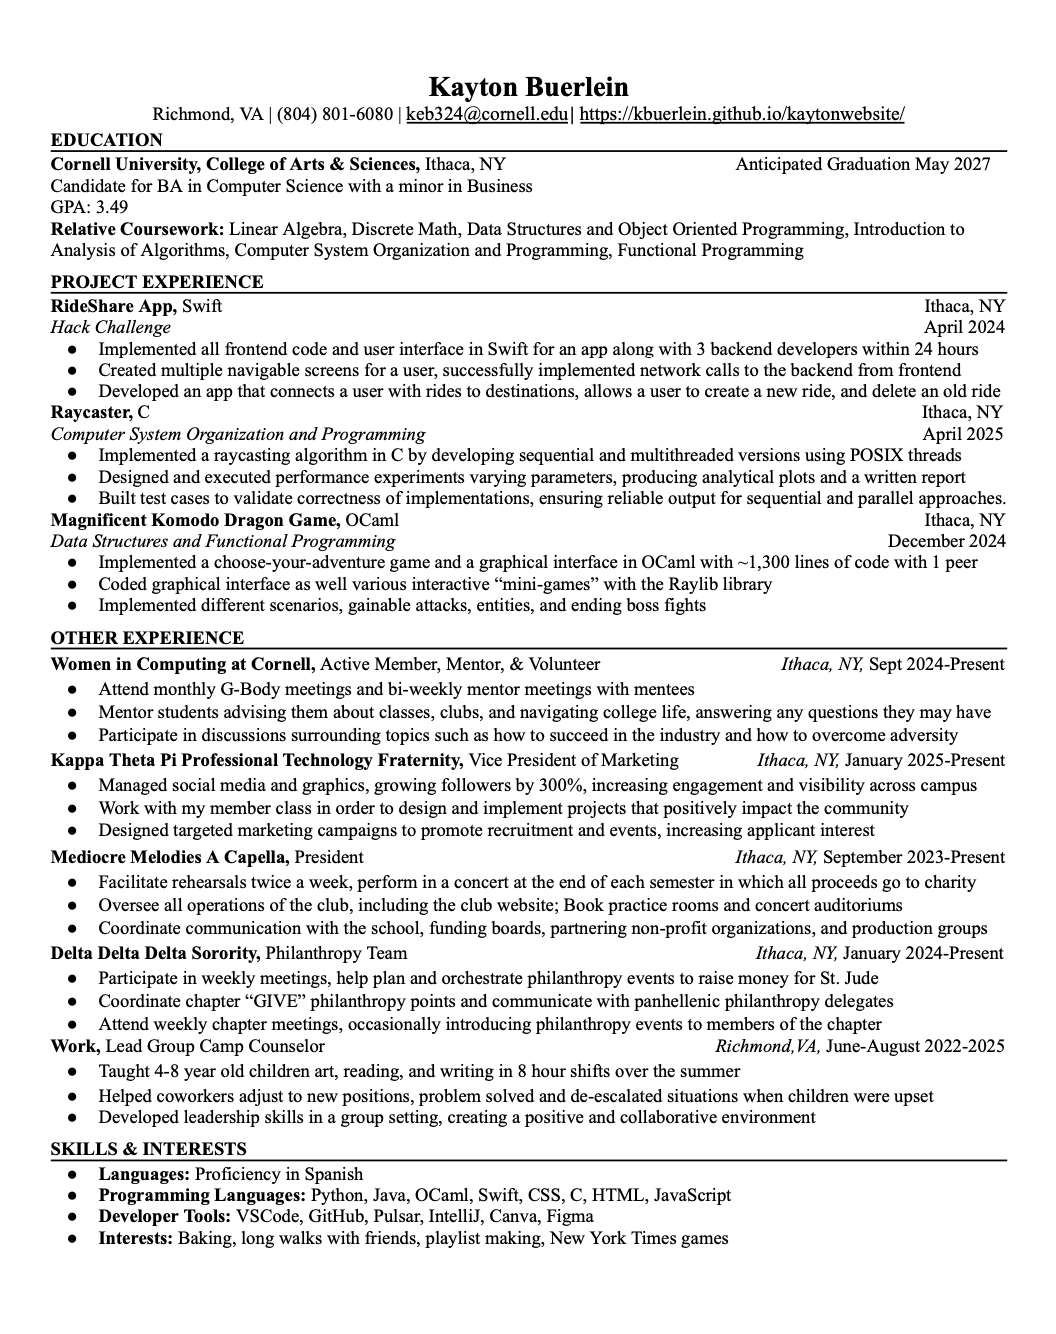
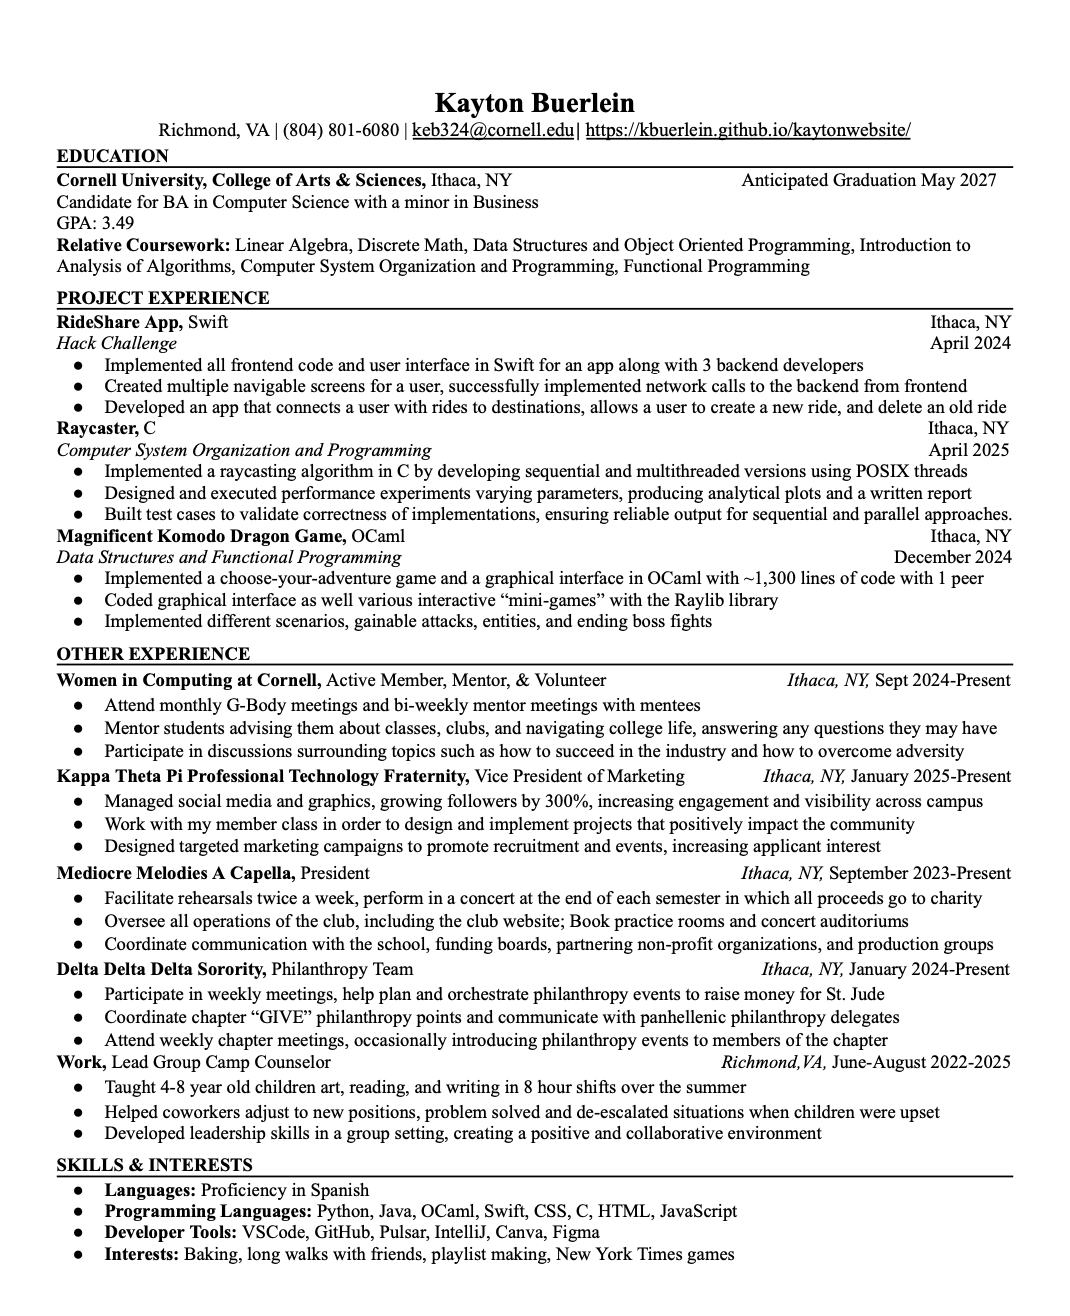
Changed Resume

Changed region(s): [[0.0312, 0.0623, 0.9688, 0.9658]]

diff --git a/projects.html b/projects.html
@@ -30,7 +30,7 @@
         <h3>Frontend Developer, Swift</h3>
         <p class="proj-p">
 
-            In April of 2024, I worked for 24 hours alongside 3 backend developers to create a app that connects users to a ride in their local area with other Cornell students. My role included creating multiple navigable screens and implementing network calls from the frontend to the backend by using Swift. </p>
+            In April of 2024, I worked alongside 3 backend developers to create a app that connects users to a ride in their local area with other Cornell students. My role included creating multiple navigable screens and implementing network calls from the frontend to the backend by using Swift. </p>
 
         <figure>
             <img class="img-sizing" src="images/rideshare.png" alt="A picture of my RideShare app">
